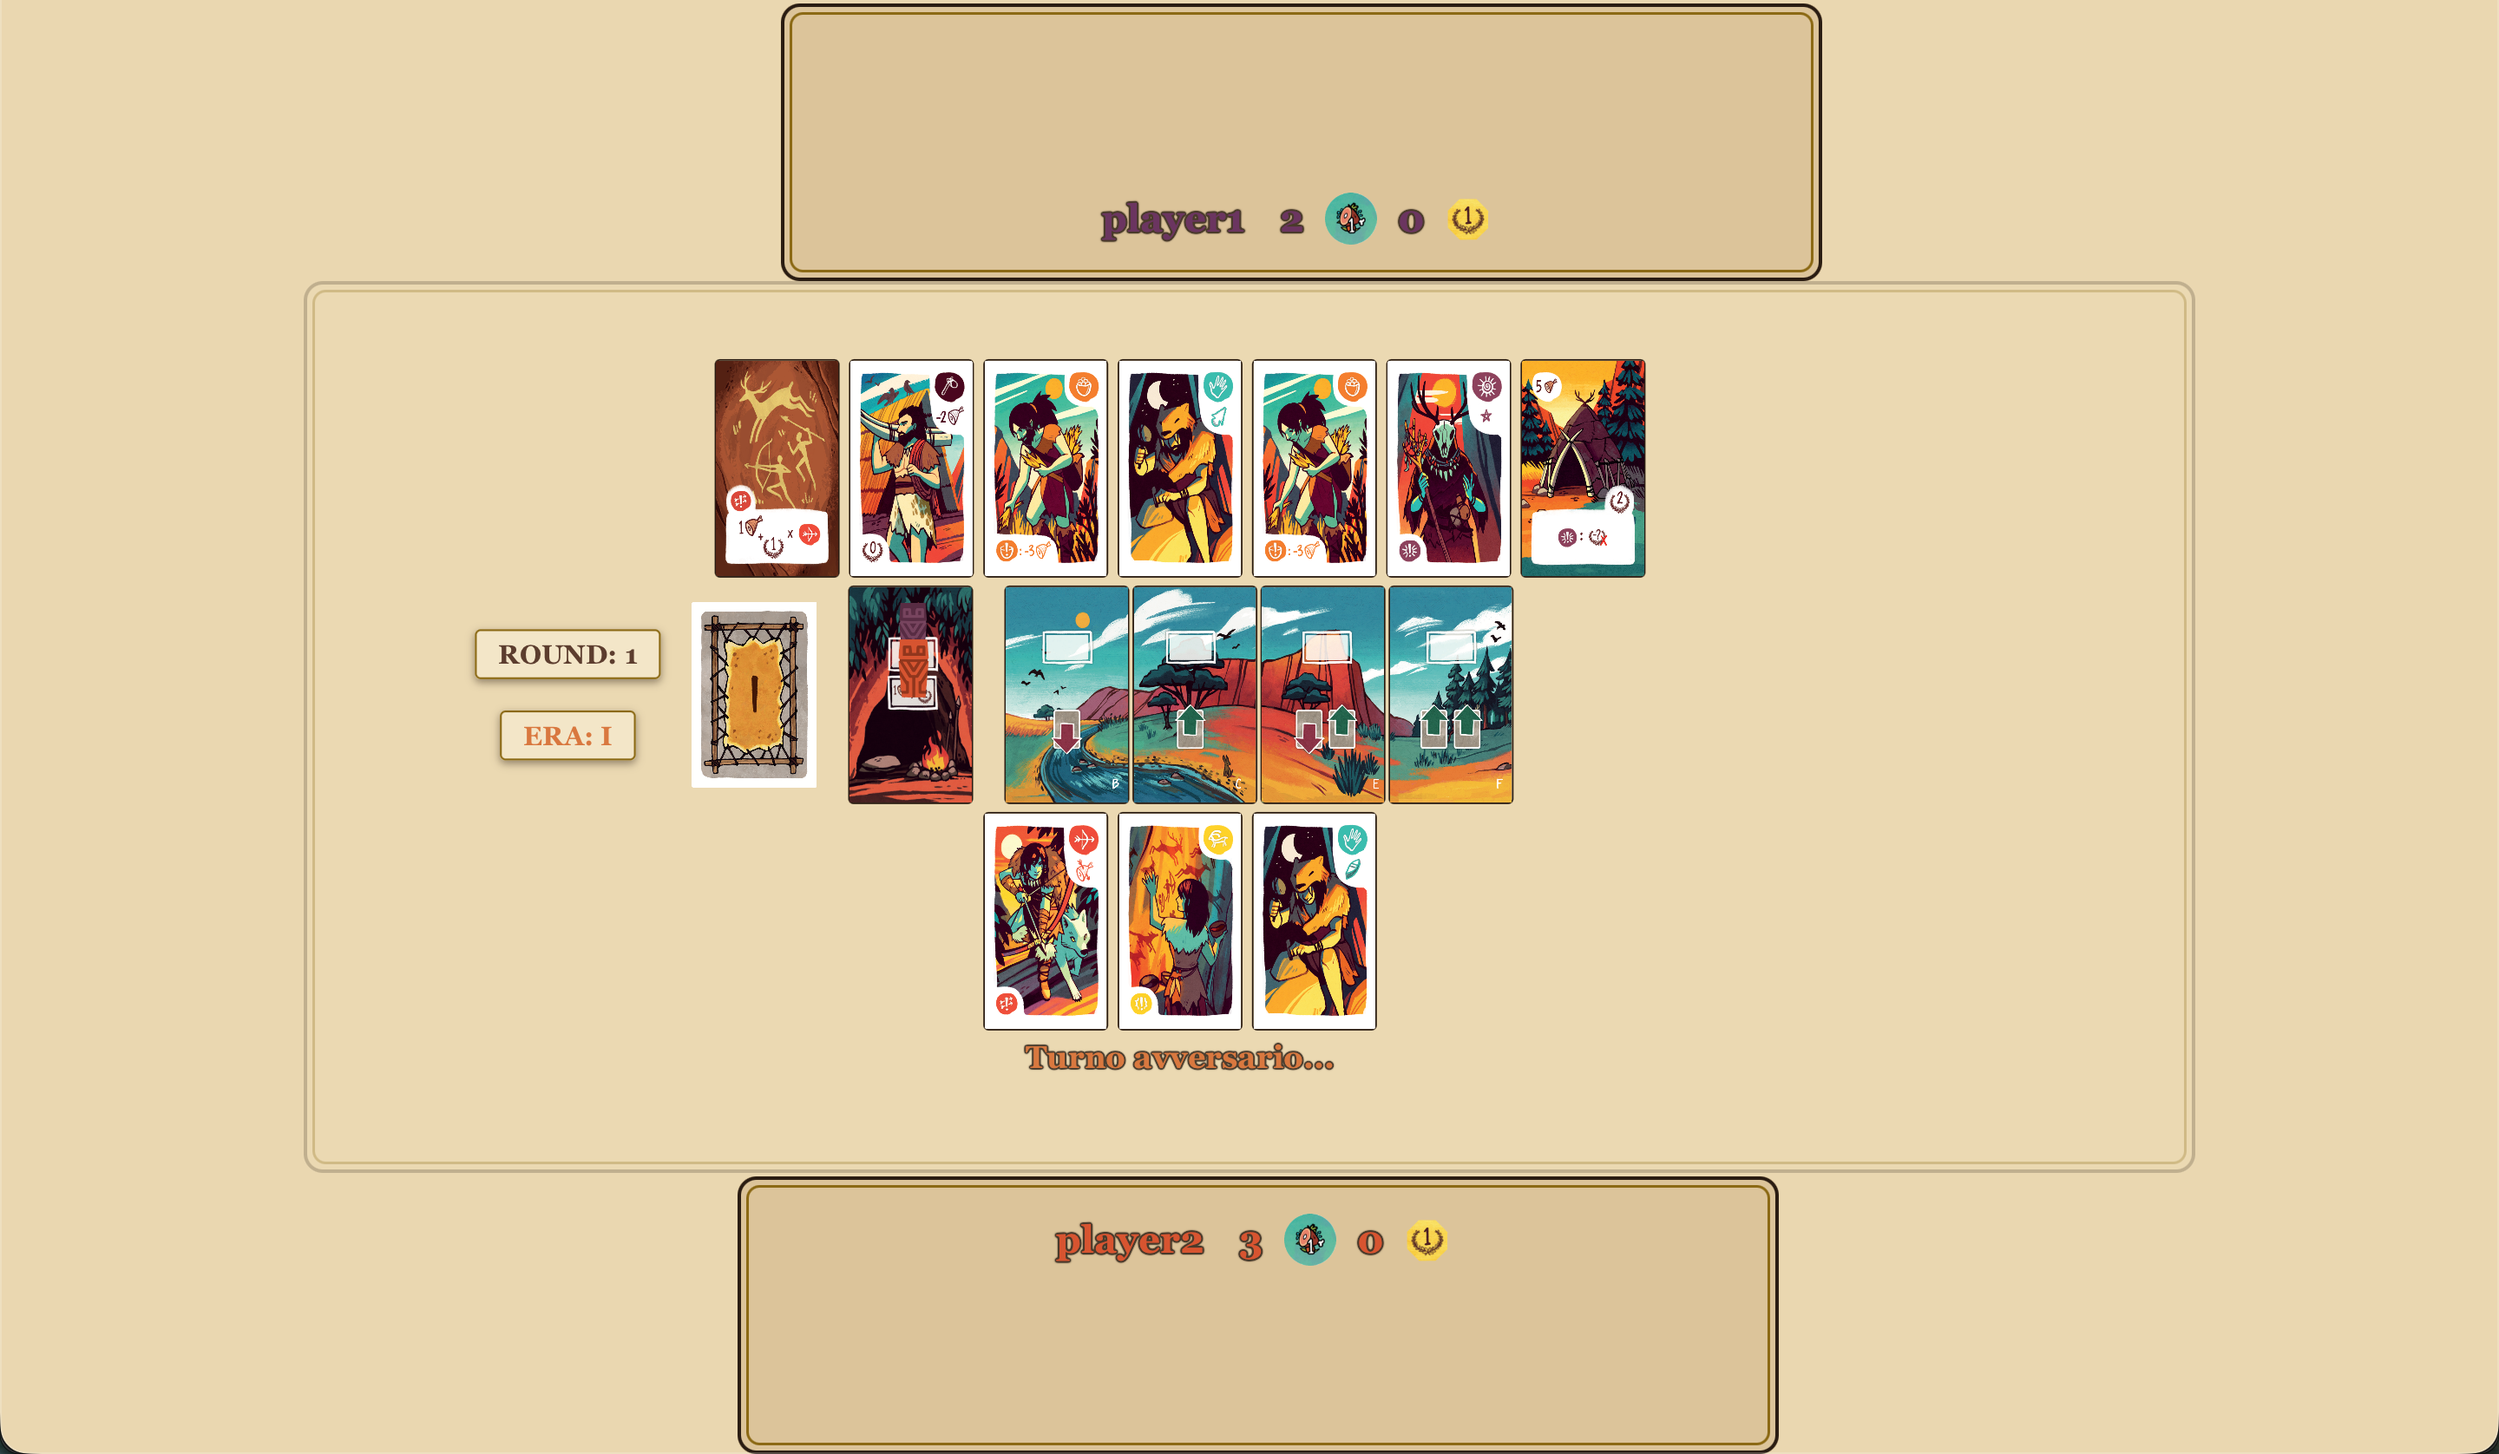
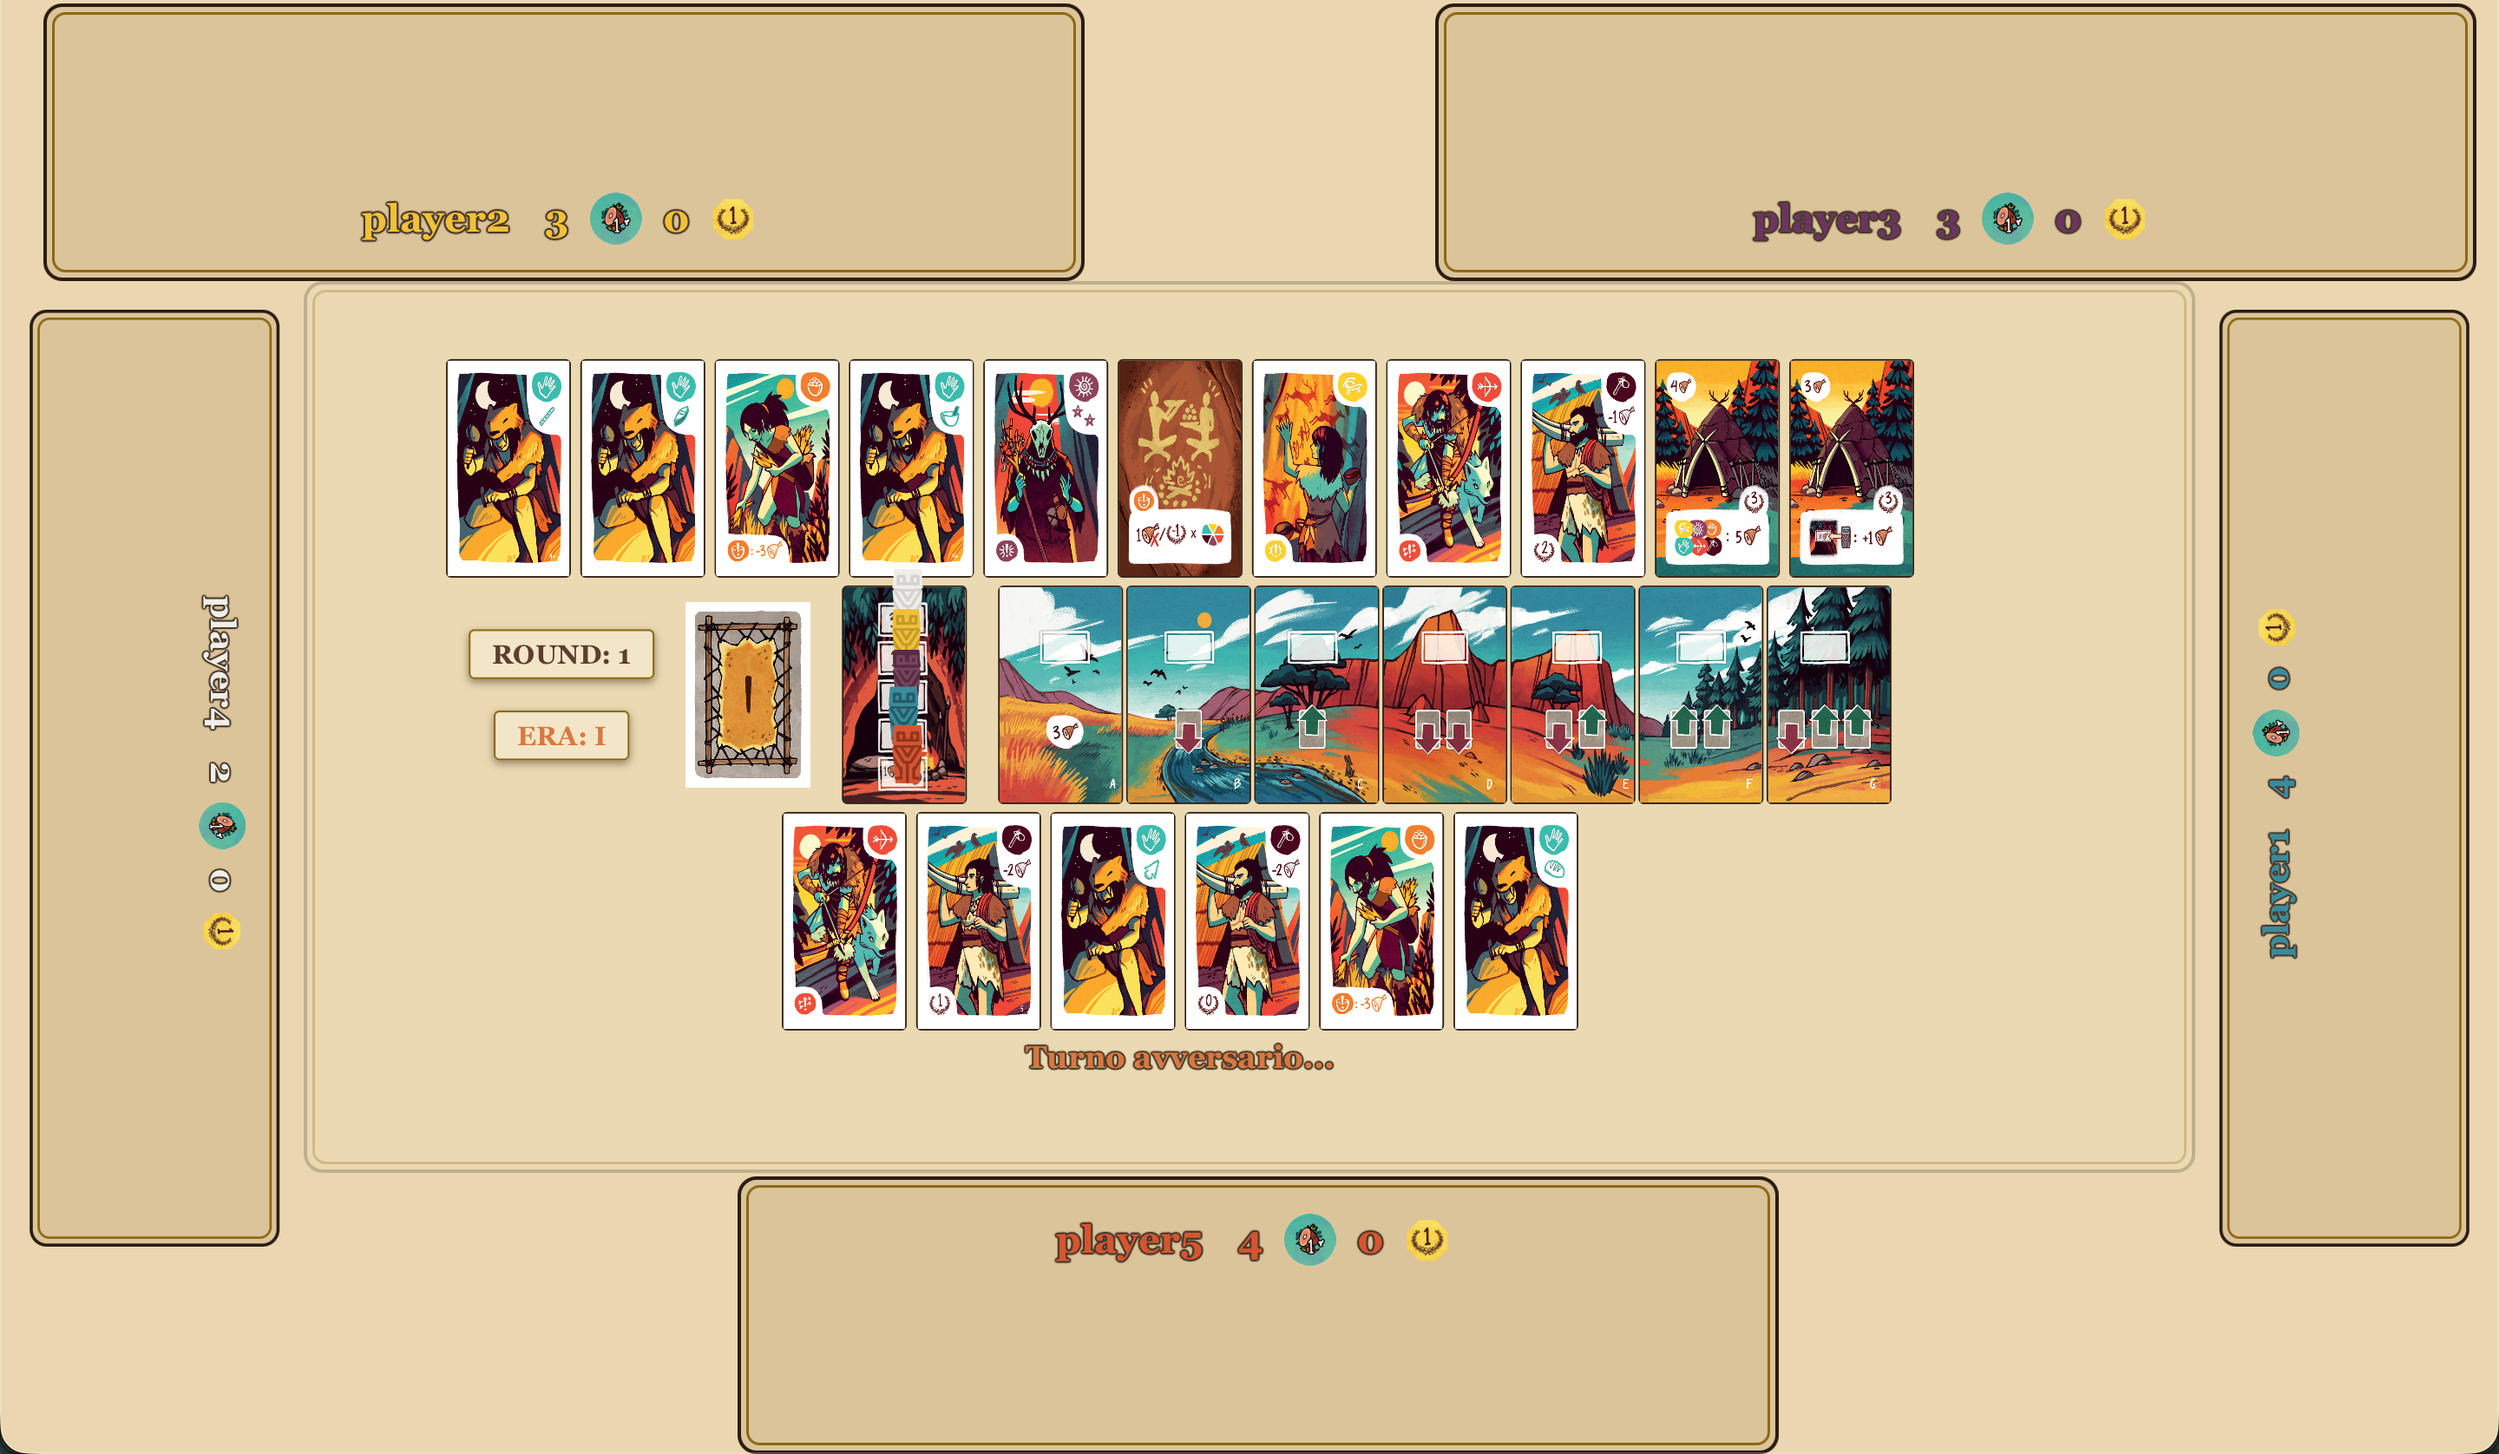
README.md fixes

diff --git a/README.md b/README.md
@@ -127,28 +127,28 @@ it.polimi.ingsw.mesos
 
 <table>
   <tr>
-    <th width="30%" align="left">Interface</th>
-    <th width="70%" align="center">Screenshot</th>
+    <th width="15%" align="left">Interface</th>
+    <th width="85%" align="center">Screenshot</th>
   </tr>
   <tr>
-    <td align="left"><b>Login</b></td>
-    <td align="center"><img src="assets/images/login.png" alt="Login screen" width="100%"></td>
+    <td align="center"><b>Login</b></td>
+    <td align="center"><img src="images/login.png" alt="Login screen" width="100%"></td>
   </tr>
   <tr>
-    <td align="left"><b>Lobby</b></td>
-    <td align="center"><img src="assets/images/lobby.png" alt="Lobby screen" width="100%"></td>
+    <td align="center"><b>Lobby</b></td>
+    <td align="center"><img src="images/lobby.png" alt="Lobby screen" width="100%"></td>
   </tr>
   <tr>
-    <td align="left"><b>Totem Selection</b></td>
-    <td align="center"><img src="assets/images/totem.png" alt="Totem selection" width="100%"></td>
+    <td align="center"><b>Totem Selection</b></td>
+    <td align="center"><img src="images/totem.png" alt="Totem selection" width="100%"></td>
   </tr>
   <tr>
-    <td align="left"><b>GUI Gameplay</b></td>
-    <td align="center"><img src="assets/images/gui-gameplay.png" alt="GUI gameplay" width="100%"></td>
+    <td align="center"><b>GUI Gameplay</b></td>
+    <td align="center"><img src="images/gui-gameplay.png" alt="GUI gameplay" width="100%"></td>
   </tr>
   <tr>
-    <td align="left"><b>CLI Gameplay</b></td>
-    <td align="center"><img src="assets/images/cli-gameplay.png" alt="CLI gameplay" width="100%"></td>
+    <td align="center"><b>CLI Gameplay</b></td>
+    <td align="center"><img src="images/cli-gameplay.png" alt="CLI gameplay" width="100%"></td>
   </tr>
 </table>
 
